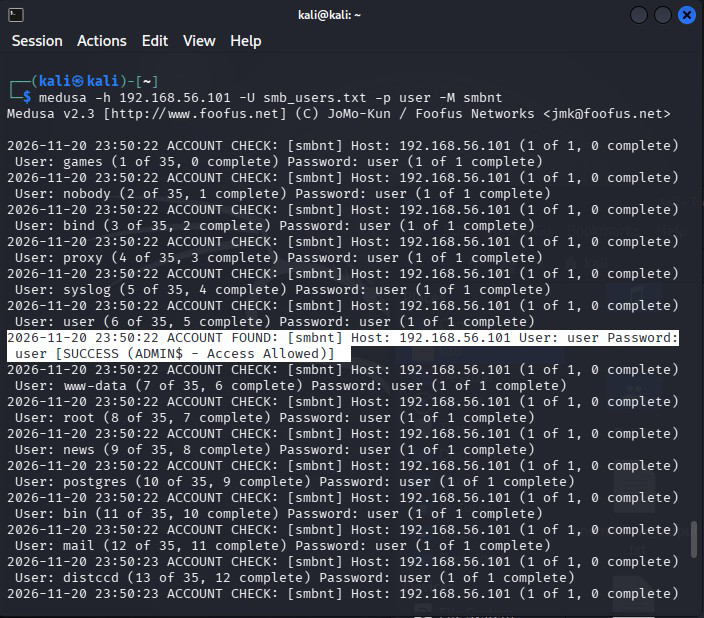
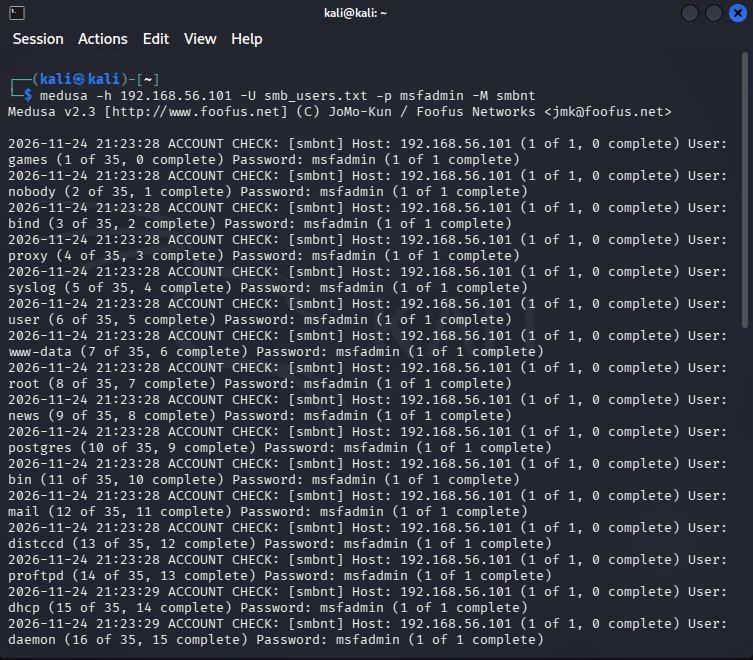
atualiza README.md e inclui capturas complementares de password spraying no SMB

diff --git a/README.md b/README.md
@@ -5,13 +5,13 @@ Projeto prático desenvolvido para o **Bootcamp de Cibersegurança da [DIO](http
 ---
 
 ## 📌 Sumário
-- [Arquitetura do Laboratório](#-arquitetura-do-laboratório)
+- [Arquitetura do Laboratório](#-arquitetura-do-laboratório)
 - [Estrutura do Repositório](#-estrutura-do-repositório)
 - [Cenários Práticos Executados](#-cenários-práticos-executados)
   - [1. Força Bruta em FTP com Medusa](#1-força-bruta-em-ftp-com-medusa)
   - [2. Autenticação Web no DVWA (Diagnóstico e Resolução com Hydra)](#2-autenticação-web-no-dvwa)
   - [3. Enumeração e Password Spraying em SMB](#3-enumeração-e-password-spraying-em-smb)
-- [Recomendações de Mitigação](#-recomendações-de-mitigação)
+- [Recomendações de Mitigação](#-recomendações-de-mitigação)
 - [Lições Aprendidas](#-lições-aprendidas)
 
 ---
@@ -38,6 +38,7 @@ Todos os testes foram executados em um ambiente 100% isolado através do **Virtu
 │   ├── smb_enum4linux1.png
 │   ├── smb_enum4linux2.png
 │   ├── smb_medusa_spraying.png
+│   ├── smb_medusa_spraying_2.png
 │   └── smb_validacao.png
 ├── wordlists/          # Listas didáticas utilizadas nos testes
 │   ├── users.txt
@@ -100,6 +101,7 @@ Todos os testes foram executados em um ambiente 100% isolado através do **Virtu
 <img src="./images/smb_enum4linux_1.png" alt="smb_enum4linux_1" width="600">
 <img src="./images/smb_enum4linux_2.png" alt="smb_enum4linux_2" width="600">
 <img src="./images/smb_medusa_spraying.png" alt="smb_medusa_apraying" width="600">
+<img src="./images/smb_medusa_spraying_2.png" alt="smb_medusa_apraying" width="600">
 <img src="./images/smb_validacao.png" alt="smb_validacao" width="600">
 
 ---
@@ -139,3 +141,6 @@ Todos os testes foram executados em um ambiente 100% isolado através do **Virtu
 1. **Escolha da ferramenta adequada:** Ferramentas rápidas de rede como o Medusa são excepcionais para serviços como FTP e SMB, mas formulários web modernos com controle de sessão e redirecionamentos HTTP (302) exigem ferramentas dedicadas como o Hydra.
 2. **Importância da validação manual:** Auditorias de segurança não devem se apoiar exclusivamente em saídas de ferramentas automáticas para evitar falsos positivos.
 3. **Defesa em camadas:** Nenhum mecanismo de segurança é suficiente sozinho; a proteção real depende da combinação de senhas robustas, MFA, bloqueio de tentativas e monitoramento contínuo.
+
+
+[def]: #2-autenticação-web-no-dvwa
